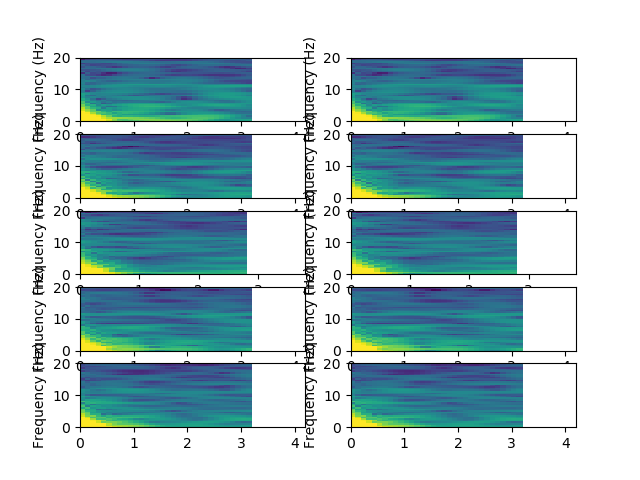
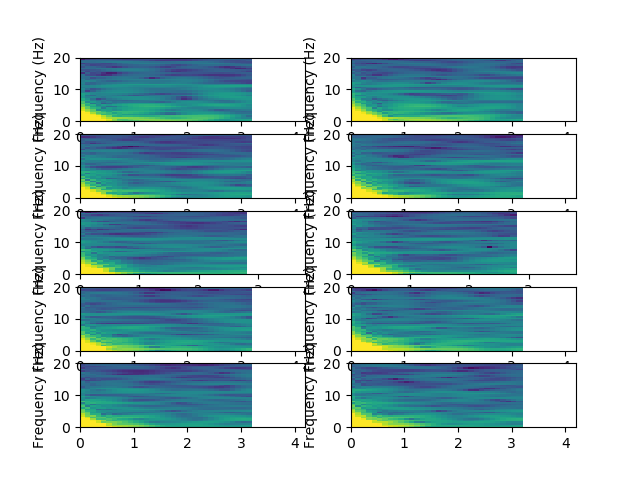
fixed channels, plotting now works

Changed region(s): [[0.5312, 0.5938, 0.8125, 0.9062], [0.5312, 0.2812, 0.8125, 0.5938], [0.5312, 0.125, 0.8125, 0.25]]

diff --git a/offline/data/March20/plot_epochs_separately.py b/offline/data/March20/plot_epochs_separately.py
@@ -60,15 +60,12 @@ shift = 0.1
 channel = (1,2,3,4,5,6,7,8,13)
 fs_Hz = 250
 #fname = 'time-test-JingMingImagined10s-2019-3-20-10-12-1.csv'
-csv = "time-test-JingMingImaginedREALLYGOOD-2019-3-20-10-21-44.csv"
+
 csv = "time-test-JingMingActual_10s-2019-3-20-10-51-28.csv"
 csv = "time-test-JingMingActual-2019-3-20-9-54-59.csv"
 csv = "time-test-JingMingActual-2019-3-20-10-5-15.csv"
-#fname = '3_restleftright_10s_OpenBCI-RAW-2019-03-15_18-46-11.txt'
-#markers = '3_restleftright_10s_time-stamp-65-2019-2-15-18-52-10.csv'
-#fname = 'Marley_prolonged_trial.txt'
-#fname = 'OpenBCI-RAW-2019-03-11_17-21-55.txt'
-#fname = '../March 4/5_SUCCESS_Rest_RightAndJawClench_10secs.txt'
+csv = "time-test-JingMingImagined10s-2019-3-20-10-12-1.csv"
+#csv = "time-test-JingMingImaginedREALLYGOOD-2019-3-20-10-21-44.csv"
 df = pd.read_csv(csv)
 
 fname = 'OpenBCI-RAW-2019-03-20_10-04-29.txt'
@@ -125,7 +122,7 @@ for direction, data in all_data.items():
             all_spectra.append(d)
         all_spectra = np.array(all_spectra)
         left.append(np.mean(all_spectra[set_1], axis=0))
-        right.append(np.mean(all_spectra[set_1], axis=0))
+        right.append(np.mean(all_spectra[set_2], axis=0))
     idx = 0
     num_rows = max(len(left), 5)
     for spec in left:
